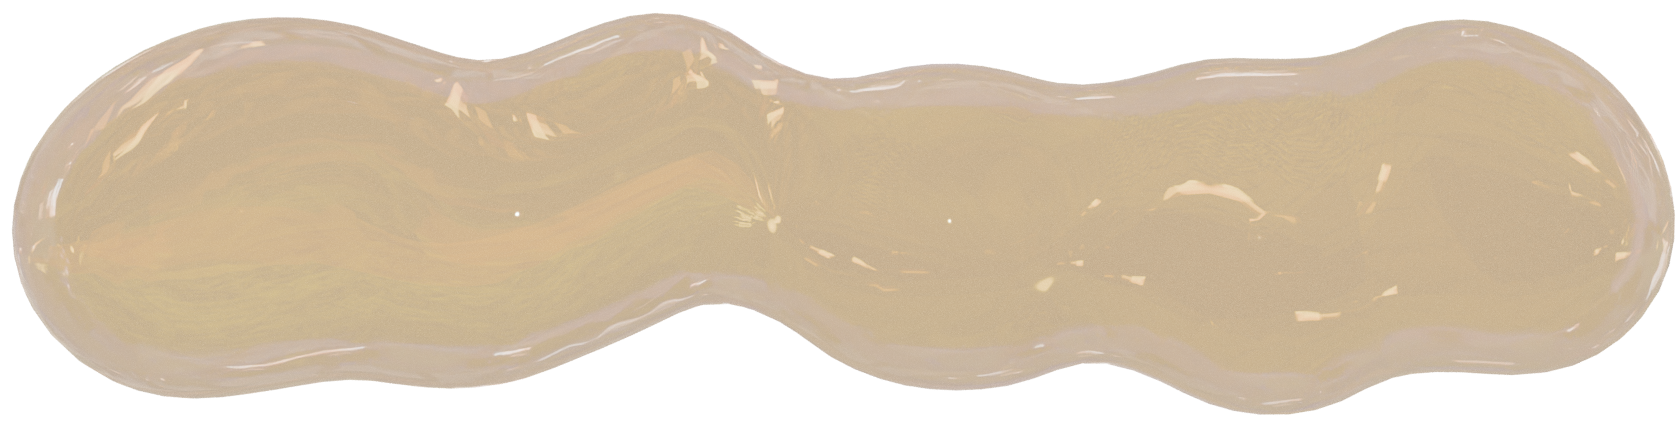
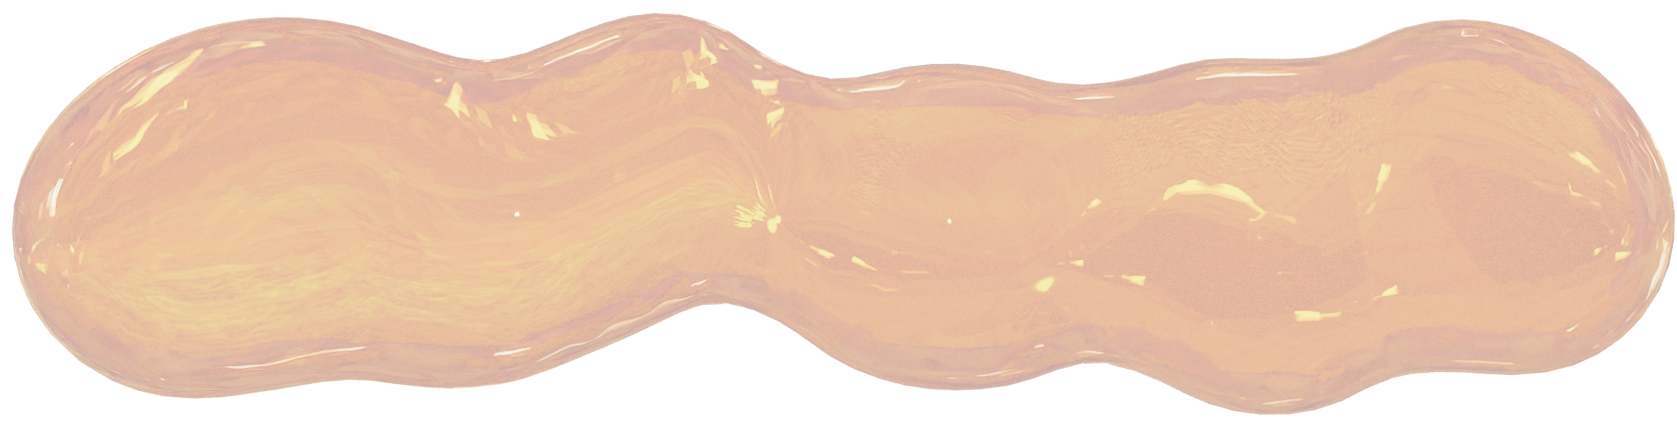
.

diff --git a/src/world/WorldRenderer.cpp b/src/world/WorldRenderer.cpp
@@ -373,12 +373,12 @@ void WorldRenderer::mainThreadDraw(const jl::Camera* playerCamera, GLuint shader
                 glUniform1f(dewyFogFactorLoc, dewyFogFactor);
                 glUniform1f(grassRedChangeLoc, grassRedChange);
                 glUniform1f(timeRenderedLoc, chunkinfo.timeBeenRendered);
-                glDisable(GL_CULL_FACE);
+                //glDisable(GL_CULL_FACE);
                 if (actuallyDraw)
                 {
                     drawTransparentsFromChunkIndex(static_cast<int>(chunkinfo.chunkIndex), glInfo);
                 }
-                glEnable(GL_CULL_FACE);
+                //glEnable(GL_CULL_FACE);
             }
         }
     }
@@ -950,7 +950,7 @@ void WorldRenderer::clearInFlightMeshUpdates()
 
 ///Call this with an external index and UsableMesh to mutate them
 template<bool doBrightness>
-__inline void addFace(PxVec3 offset, Side side, MaterialName material, int sideHeight, UsableMesh& mesh, PxU32& index, PxU32& tindex)
+__inline void addFace(PxVec3 offset, Side side, MaterialName material, int sideHeight, UsableMesh& mesh, PxU32& index, PxU32& tindex, float offsety)
 {
     auto & tex = TEXS[material];
     auto faceindex = (side == Side::Top) ? 2 : (side == Side::Bottom) ? 1 : 0;
@@ -968,10 +968,10 @@ __inline void addFace(PxVec3 offset, Side side, MaterialName material, int sideH
     //If the material's transparent, add these verts to the "t____" parts of the mesh. If not, add them to the normal mesh.
     if (std::ranges::find(transparents, material) != transparents.end())
     {
-        std::ranges::transform(cubefaces[static_cast<int>(side)], std::back_inserter(mesh.tpositions), [&offset, &sideHeight](const auto& v) {
+        std::ranges::transform(cubefaces[static_cast<int>(side)], std::back_inserter(mesh.tpositions), [offset, sideHeight, offsety](const auto& v) {
             auto newv = v;
             newv.y *= sideHeight;
-            return newv + offset;
+            return newv + offset + PxVec3(0.f, offsety, 0.f);
         });
 
         std::ranges::transform(cwindices, std::back_inserter(mesh.tindices), [&tindex](const auto& i) {
@@ -1002,10 +1002,10 @@ __inline void addFace(PxVec3 offset, Side side, MaterialName material, int sideH
         tindex += 4;
     } else
     {
-        std::ranges::transform(cubefaces[static_cast<int>(side)], std::back_inserter(mesh.positions), [&offset, &sideHeight](const auto& v) {
+        std::ranges::transform(cubefaces[static_cast<int>(side)], std::back_inserter(mesh.positions), [offset, sideHeight, offsety](const auto& v) {
             auto newv = v;
             newv.y *= sideHeight;
-            return newv + offset;
+            return newv + offset + PxVec3(0.f, offsety, 0.f);
         });
 
         std::ranges::transform(cwindices, std::back_inserter(mesh.indices), [&index](const auto& i) {
@@ -1151,25 +1151,34 @@ UsableMesh fromChunk(const TwoIntTup& spot, World* world, int chunkSize, bool lo
                         if (neighborair || solidNeighboringTransparent || (blockHereTransparent && (neighblock != blockID) && neightransparent)) {
                             Side side = static_cast<Side>(i);
 
-                            if (!ambOccl) {
-                                addFace<true>(PxVec3(static_cast<float>(here.x), static_cast<float>(here.y), static_cast<float>(here.z)),
-                                             side, static_cast<MaterialName>(blockID), 1, mesh, index, tindex);
-                            } else {
-                                addFace<false>(PxVec3(static_cast<float>(here.x), static_cast<float>(here.y), static_cast<float>(here.z)),
-                                              side, static_cast<MaterialName>(blockID), 1, mesh, index, tindex);
-                                calculateAmbientOcclusion(here, side, world, locked, blockID, mesh);
+
+                            if (blockID == WATER && side == Side::Top)
+                            {
+                                if (!ambOccl) {
+                                    addFace<true>(PxVec3(static_cast<float>(here.x), static_cast<float>(here.y), static_cast<float>(here.z)),
+                                                 side, static_cast<MaterialName>(blockID), 1, mesh, index, tindex, -0.2f);
+                                    addFace<true>(PxVec3(static_cast<float>(here.x), static_cast<float>(here.y)+1, static_cast<float>(here.z)),
+                                                Side::Bottom, static_cast<MaterialName>(blockID), 1, mesh, index, tindex, -0.2f);
+                                } else {
+                                    addFace<false>(PxVec3(static_cast<float>(here.x), static_cast<float>(here.y), static_cast<float>(here.z)),
+                                                  side, static_cast<MaterialName>(blockID), 1, mesh, index, tindex, -0.2f);
+                                    calculateAmbientOcclusion(here, side, world, locked, blockID, mesh);
+                                    addFace<false>(PxVec3(static_cast<float>(here.x), static_cast<float>(here.y)+1, static_cast<float>(here.z)),
+                                                  Side::Bottom, static_cast<MaterialName>(blockID), 1, mesh, index, tindex, -0.2f);
+                                    calculateAmbientOcclusion(here, side, world, locked, blockID, mesh);
+                                }
+
+                            } else
+                            {
+                                if (!ambOccl) {
+                                    addFace<true>(PxVec3(static_cast<float>(here.x), static_cast<float>(here.y), static_cast<float>(here.z)),
+                                                 side, static_cast<MaterialName>(blockID), 1, mesh, index, tindex);
+                                } else {
+                                    addFace<false>(PxVec3(static_cast<float>(here.x), static_cast<float>(here.y), static_cast<float>(here.z)),
+                                                  side, static_cast<MaterialName>(blockID), 1, mesh, index, tindex);
+                                    calculateAmbientOcclusion(here, side, world, locked, blockID, mesh);
+                                }
                             }
-                            // if (blockID == WATER && side == Side::Top)
-                            // {
-                            //     if (!ambOccl) {
-                            //         addFace<true>(PxVec3(static_cast<float>(here.x), static_cast<float>(here.y)+1, static_cast<float>(here.z)),
-                            //                      Side::Bottom, static_cast<MaterialName>(blockID), 1, mesh, index, tindex);
-                            //     } else {
-                            //         addFace<false>(PxVec3(static_cast<float>(here.x), static_cast<float>(here.y)+1, static_cast<float>(here.z)),
-                            //                       Side::Bottom, static_cast<MaterialName>(blockID), 1, mesh, index, tindex);
-                            //         calculateAmbientOcclusion(here, side, world, locked, blockID, mesh);
-                            //     }
-                            // }
                         }
                     }
                 }

diff --git a/src/Player.cpp b/src/Player.cpp
@@ -25,14 +25,52 @@
 void PlayerUpdate(float deltaTime, World* world, ParticlesGizmo* particles, RenderComponent& renderComponent,
     PhysicsComponent& physicsComponent, MovementComponent& movementComponent, Controls& controls, jl::Camera & camera, ParticleEffectComponent & particleComponent, InventoryComponent& inventory)
 {
+    auto & lastBlockStandingOn = particleComponent.lastBlockStandingOn;
 
+    if(controls.anyMovement())
+    {
+        if (controls.swimming)
+        {
+            movementComponent.footstepInterval = 1.0f;
+
+        } else if(controls.sprint) {
+
+            movementComponent.footstepInterval = 0.35f;
+        }else
+        {
+            movementComponent.footstepInterval = 0.5f;
+        }
+        if(auto b =  getFootstepSound(lastBlockStandingOn); b != std::nullopt)
+        {
+            if(movementComponent.footstepTimer < movementComponent.footstepInterval)
+            {
+                movementComponent.footstepTimer += deltaTime;
+            } else
+            {
+                movementComponent.footstepTimer = 0.0f;
+
+                auto & stepSounds = getBufferSeries(fromMaterial(static_cast<MaterialName>(lastBlockStandingOn & BLOCK_ID_BITS)));
+                if(!stepSounds.empty())
+                {
+                    if(movementComponent.soundSeriesIndexer < stepSounds.size() && movementComponent.soundSeriesIndexer >= 0)
+                    {
+                        alSourceStop(movementComponent.footstepSource);
+                        playBufferFromSource(sounds.at((int)stepSounds[movementComponent.soundSeriesIndexer]), movementComponent.footstepSource);
+                    }
+                    movementComponent.soundSeriesIndexer  = (movementComponent.soundSeriesIndexer + 1) % stepSounds.size();
+                }
+
+
+            }
+        }
+    }
 
     if (controls.swimming) {
         // Totally different player movement logic for swimming
         float swimSpeed = 8.0f; // Base swimming speed
 
         // Zero out gravity effects when swimming
-        camera.transform.velocity /= (1.0f + deltaTime * 2.0f); // Higher water resistance
+        camera.transform.velocity /= (1.0f + deltaTime * 0.5f); // Higher water resistance
 
         // Controls for swimming movement - 3D movement in water
         if (controls.forward) {
@@ -48,14 +86,13 @@ void PlayerUpdate(float deltaTime, World* world, ParticlesGizmo* particles, Rend
             camera.transform.velocity -= camera.transform.right * deltaTime * swimSpeed;
         }
         if (controls.jump) {
-            camera.transform.velocity += glm::vec3(0.0f, 1.0f, 0.0f) * deltaTime * swimSpeed;
+            camera.transform.velocity += glm::vec3(0.0f, 2.0f, 0.0f) * deltaTime * swimSpeed;
         }
-        if (controls.crouch) {
-            camera.transform.velocity -= glm::vec3(0.0f, 1.0f, 0.0f) * deltaTime * swimSpeed;
+        if (controls.sprint) {
+            camera.transform.velocity -= glm::vec3(0.0f, 2.0f, 0.0f) * deltaTime * swimSpeed;
         }
 
-        // Apply natural buoyancy - gentle upward drift
-        camera.transform.velocity += glm::vec3(0.0f, 0.5f, 0.0f) * deltaTime;
+        camera.transform.velocity -= glm::vec3(0.0f, 1.0f, 0.0f) * deltaTime;
 
         // Apply velocity-based movement
         glm::vec3 displacement = camera.transform.velocity * deltaTime;
@@ -98,7 +135,7 @@ void PlayerUpdate(float deltaTime, World* world, ParticlesGizmo* particles, Rend
     auto & dashtimer = movementComponent.dashtimer;
     auto & slidThisDash = movementComponent.slidThisDash;
     auto & isSliding = movementComponent.isSliding;
-    auto & lastBlockStandingOn = particleComponent.lastBlockStandingOn;
+
     auto & slideTimer = movementComponent.slideTimer;
     auto & slideDuration = movementComponent.slideDuration;
     auto & originalStepHeight = physicsComponent.originalStepHeight;
@@ -136,39 +173,7 @@ void PlayerUpdate(float deltaTime, World* world, ParticlesGizmo* particles, Rend
 
 
 
-    if(controls.anyMovement())
-    {
-        if(controls.sprint)
-        {
-            movementComponent.footstepInterval = 0.35f;
-        } else
-        {
-            movementComponent.footstepInterval = 0.5f;
-        }
-        if(auto b =  getFootstepSound(lastBlockStandingOn); b != std::nullopt)
-        {
-            if(movementComponent.footstepTimer < movementComponent.footstepInterval)
-            {
-                movementComponent.footstepTimer += deltaTime;
-            } else
-            {
-                movementComponent.footstepTimer = 0.0f;
 
-                auto & stepSounds = getBufferSeries(fromMaterial(static_cast<MaterialName>(lastBlockStandingOn & BLOCK_ID_BITS)));
-                if(!stepSounds.empty())
-                {
-                    if(movementComponent.soundSeriesIndexer < stepSounds.size() && movementComponent.soundSeriesIndexer >= 0)
-                    {
-                        alSourceStop(movementComponent.footstepSource);
-                        playBufferFromSource(sounds.at((int)stepSounds[movementComponent.soundSeriesIndexer]), movementComponent.footstepSource);
-                    }
-                    movementComponent.soundSeriesIndexer  = (movementComponent.soundSeriesIndexer + 1) % stepSounds.size();
-                }
-
-
-            }
-        }
-    }
 
     glm::vec3 displacement(0.0f, 0.0f, 0.0f);
     isGrounded = false;

diff --git a/src/world/WorldRenderer.h b/src/world/WorldRenderer.h
@@ -88,7 +88,7 @@ enum class Side
 // };
 
 template<bool doBrightness = true>
-__inline void addFace(PxVec3 offset, Side side, MaterialName material, int sideHeight, UsableMesh& mesh, uint32_t& index, uint32_t& tindex);
+__inline void addFace(PxVec3 offset, Side side, MaterialName material, int sideHeight, UsableMesh& mesh, uint32_t& index, uint32_t& tindex, float offsety = 0.0f);
 
 void genCGLBuffers();
 constexpr float onePixel = 0.00183823529411764705882352941176f;     //  1/544      Padding

diff --git a/src/ImGuiStuff.cpp b/src/ImGuiStuff.cpp
@@ -667,7 +667,7 @@ void renderImGui()
             }
         case GuiScreen::InGame:
 
-            ImGui::TextColored(ImVec4(1.0, 1.0, 1.0, 1.0), "dg 0.0.98e4");
+            ImGui::TextColored(ImVec4(1.0, 1.0, 1.0, 1.0), "dg 0.0.99a");
 
             for (int i = 0; i < theScene.our<MovementComponent>().stamCount; i++)
             {

diff --git a/src/Controls.cpp b/src/Controls.cpp
@@ -6,5 +6,5 @@
 
 bool Controls::anyMovement() const
 {
-    return forward || backward || left || right || jump || secondary1 || secondary2 || crouch || swimming;
+    return forward || backward || left || right || jump || secondary1 || secondary2 || crouch;
 }
